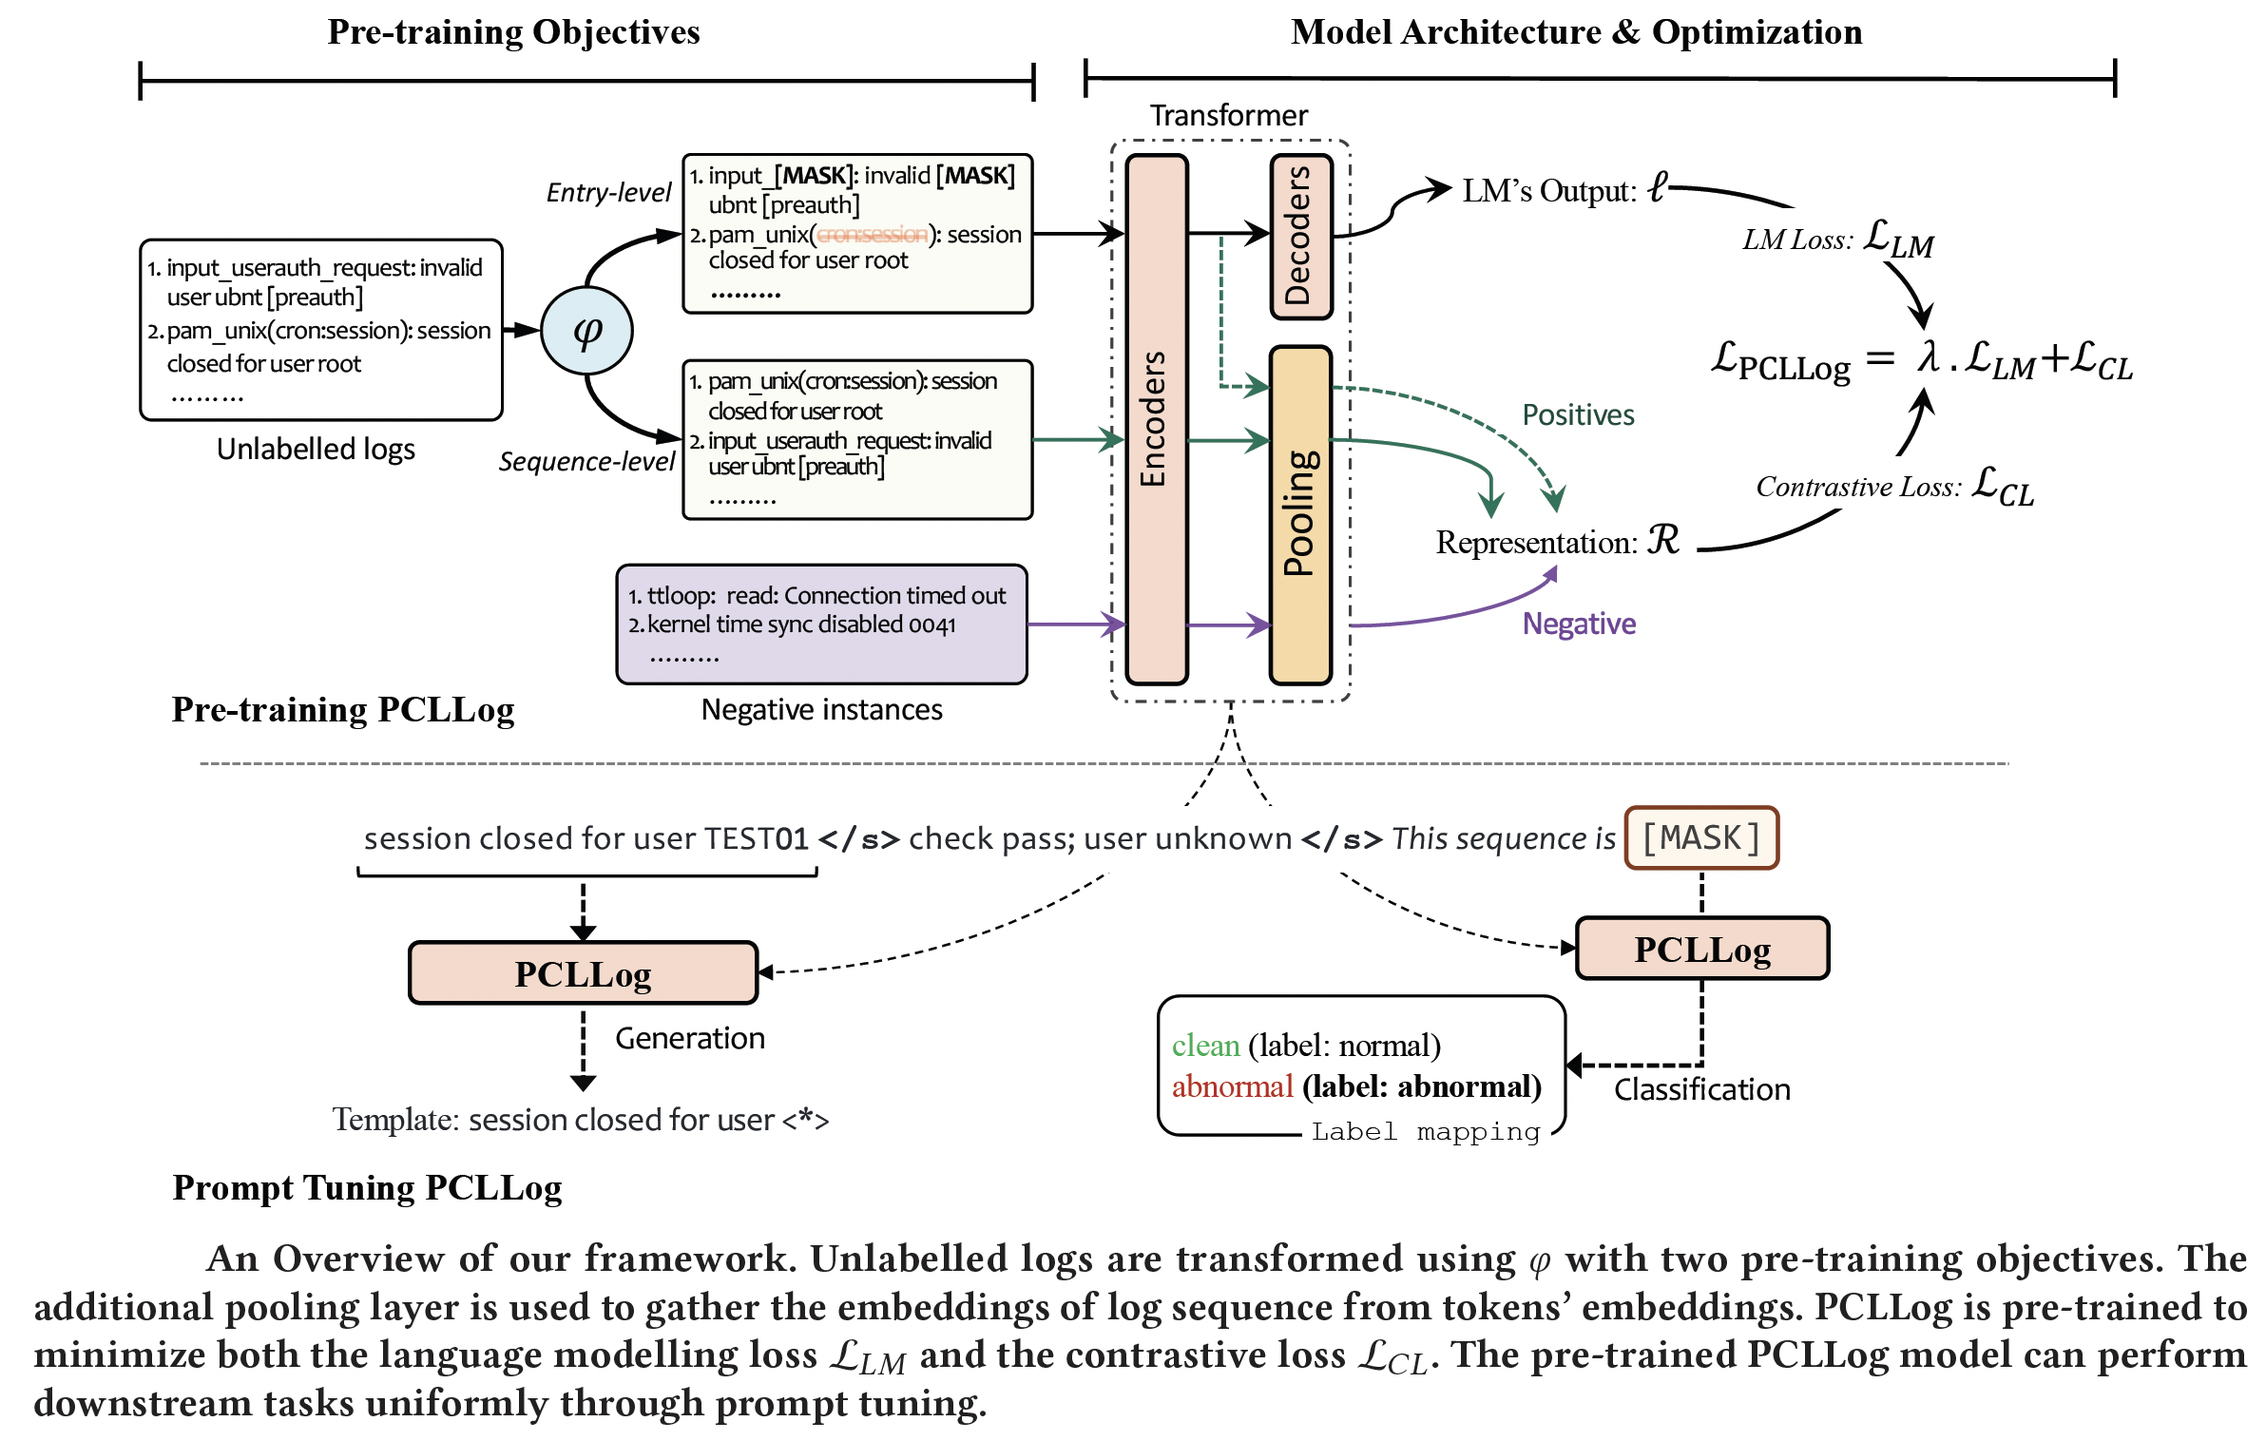
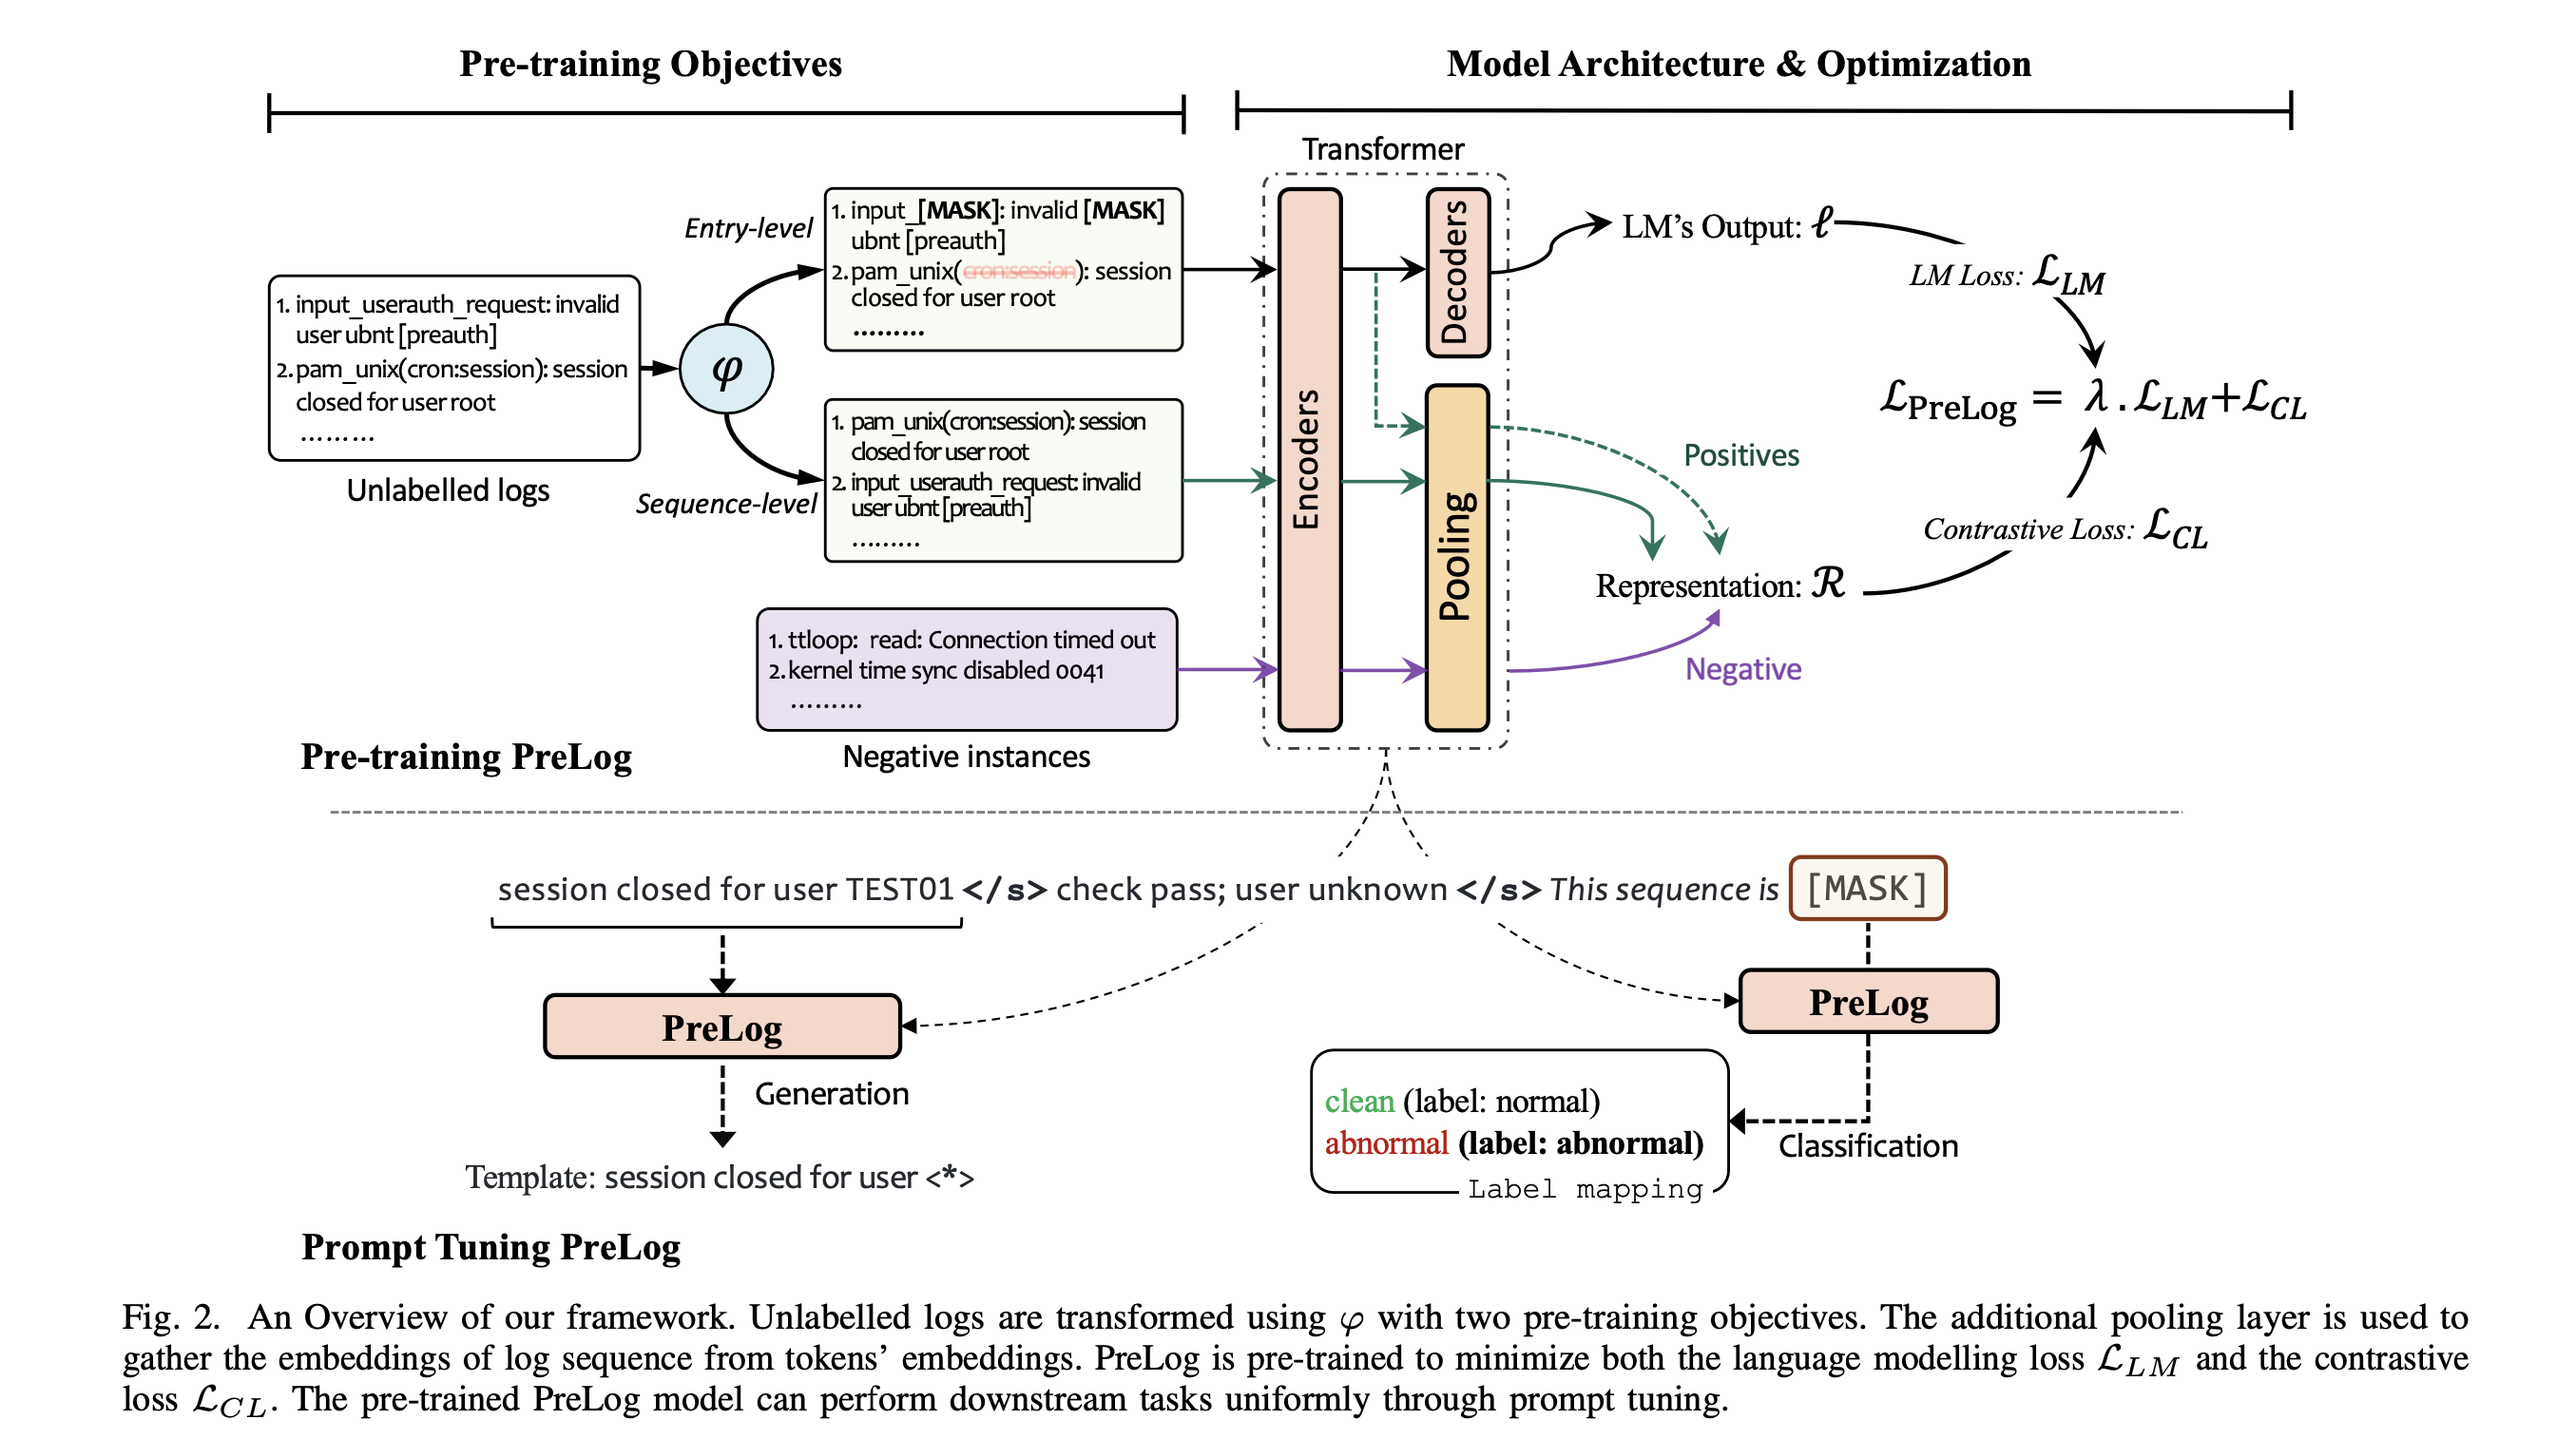
update

Changed region(s): [[0.0, 0.0, 0.9933, 0.9934]]

diff --git a/README.md b/README.md
@@ -1,24 +1,12 @@
-# PCLLog
+# PreLog
 
-Code for "Pre-training with Contrastive Learning for Unified Log Analytics"
+Code for "PreLog: A Pre-trained Model for Log Analytics"
 
-**Abstract**: Large-scale software-intensive systems often produce a large volume of logs to record runtime status and
-events for troubleshooting purposes. The rich information included in log data enables a variety of log analytics tasks,
-such as log parsing and anomaly detection. Over the years, many approaches have been proposed for automated log
-analytics. However, these approaches usually design separate models for each specific task, which cannot be generalized
-to other tasks. They are also not robust when dealing with logs from heterogeneous sources. In this paper, we propose
-PCLLog, a novel pre-training sequence-to-sequence model to enable unified log analytics. PCLLog is pre-trained on a
-large amount of unlabelled log data to capture the semantic meaning of logs. We design two log-specific pre-training
-objectives, including entry-level and sequence-level objectives, which enable PCLLog to better understand the hidden
-structure and semantic meaning of logs. Then, we perform prompt tuning of the pre-trained model for downstream tasks.
-Besides, by converting downstream tasks’ objectives into the next token prediction problem, we can handle different log
-analytics tasks in a unified manner. Our experimental results for two downstream tasks (log template generation and
-log-based anomaly detection) show that PCLLog outperforms the state-of-the-art approaches that are specifically designed
-for each downstream task.
+**Abstract**: Large-scale software-intensive systems often produce a large volume of logs to record runtime status and events for troubleshooting purposes. The rich information included in log data enables a variety of log analytics tasks, such as log parsing and anomaly detection. Over the years, many approaches have been proposed for automated log analytics. However, these approaches usually design separate models for each specific task, which cannot be generalized to other tasks. They are also not robust when dealing with logs from heterogeneous sources. In this paper, we propose PreLog, a novel pre-trained sequence-to- sequence model for log analytics. PreLog is pre-trained on a large amount of unlabelled log data to capture the semantic meaning of logs. We design two log-specific pre-training objectives, including entry-level and sequence-level objectives, which enable PreLog to better understand the hidden structure and semantic meaning of logs. Then, we perform prompt tuning of the pre-trained model for downstream tasks. Besides, by converting downstream tasks’ objectives into the next token prediction problem, we can handle different log analytics tasks in a unified manner. Our experimental results for two downstream tasks (log template generation and log-based anomaly detection) show that PreLog outperforms the state-of-the-art approaches that are specifically designed for each downstream task.
 
 ## 1. Framework
 
-<p align="center"><img src="docs/images/architecture.png" width="1000"><br>An overview of PCLLog</p>
+<p align="center"><img src="docs/images/architecture.png" width="1000"><br>An overview of PreLog</p>
 
 ## 2. Requirements
 
@@ -39,11 +27,11 @@ $ cd fairseq && python setup.py install
 ### 2.2. Models and data
 
 Download and upzip checkpoint for pre-training, a small set of pre-training data, and the pre-trained
-PCLLog [here](https://figshare.com/s/b62ffa904644863a2b89).
+PreLog [here](https://figshare.com/s/b62ffa904644863a2b89).
 
 ## 3. Usage
 
-### 3.1. Pre-training PCLLog
+### 3.1. Pre-training PreLog
 
 Pre-training with a small set of data
 
@@ -52,7 +40,7 @@ $ ./scripts/preprocess.sh
 $ ./script/pretrain.sh
 ```
 
-### 3.2. Prompt Tuning PCLLog
+### 3.2. Prompt Tuning PreLog
 
 #### 3.2.1. Generation Task
 
@@ -65,10 +53,10 @@ The code for baselines is adopted from [LogPAI](https://github.com/logpai/logpar
 ```shell
 $ cd tasks/generation/logparsing
 $ python train.py --dataset HDFS \
-    --model-path ../../../models/PCLLog \
+    --model-path ../../../models/PreLog \
     --train-file ./datasets/HDFS/32shot/1.json \
     --test-file ./datasets/HDFS/test.json \
-    --outdir 32shot/itr_1/PCLLog
+    --outdir 32shot/itr_1/PreLog
 ```
 
 - Run benchmark on 16 datasets:
@@ -95,7 +83,7 @@ $ ./benchmark
 $ cd task/classification
 $ python train.py \
     --dataset BGL \
-    --model-path ../../models/PCLLog \
+    --model-path ../../models/PreLog \
     --train-file anomaly_detection/data/train.json \
     --test-file anomaly_detection/data/test.json \
     --prompt-template prompt_template.txt \
@@ -125,7 +113,7 @@ of failures, including:
 $ cd task/classification
 $ python train.py \
     --dataset OpenStack \
-    --model-path ../../models/PCLLog \
+    --model-path ../../models/PreLog \
     --train-file failure_identification/data/train.json \
     --test-file failure_identification/data/test.json \
     --prompt-template prompt_template.txt \
@@ -177,22 +165,32 @@ found [here](https://figshare.com/s/b62ffa904644863a2b89).
     - _Unstable Log Sequences_
       <p align="center"><img src="docs/images/RQ3-ad-seq.png" width="700"></p>
 
-### 4.4. RQ4: Compare with Different Pre-trained Models
+[//]: # ()
+[//]: # (### 4.4. RQ4: Compare with Different Pre-trained Models)
 
-- **_Log Parsing_**:
+[//]: # ()
+[//]: # (- **_Log Parsing_**:)
 
-<p align="center"><img src="docs/images/RQ4-logparsing.png" width="700"></p>
+[//]: # ()
+[//]: # (<p align="center"><img src="docs/images/RQ4-logparsing.png" width="700"></p>)
 
-- **_Anomaly Detection with Stable Logs_**:
+[//]: # ()
+[//]: # (- **_Anomaly Detection with Stable Logs_**:)
 
-<p align="center"><img src="docs/images/RQ4-ad-stable.png"></p>
+[//]: # ()
+[//]: # (<p align="center"><img src="docs/images/RQ4-ad-stable.png"></p>)
 
-- **_Anomaly Detection with Unstable Logs_**:
-    - _Unstable Log Events_:
-      <p align="center"><img src="docs/images/RQ4-ad-event.png"></p>
-    - _Unstable Log Sequences_
-      <p align="center"><img src="docs/images/RQ4-ad-seq.png"></p>
+[//]: # ()
+[//]: # (- **_Anomaly Detection with Unstable Logs_**:)
 
-### 4.5. Preliminary Results for Failure Identification on OpenStack
+[//]: # (    - _Unstable Log Events_:)
+
+[//]: # (      <p align="center"><img src="docs/images/RQ4-ad-event.png"></p>)
+
+[//]: # (    - _Unstable Log Sequences_)
+
+[//]: # (      <p align="center"><img src="docs/images/RQ4-ad-seq.png"></p>)
+
+### 4.4. Preliminary Results for Failure Identification on OpenStack
 
 <p align="center"><img src="docs/images/failure-identification.png"></p>
